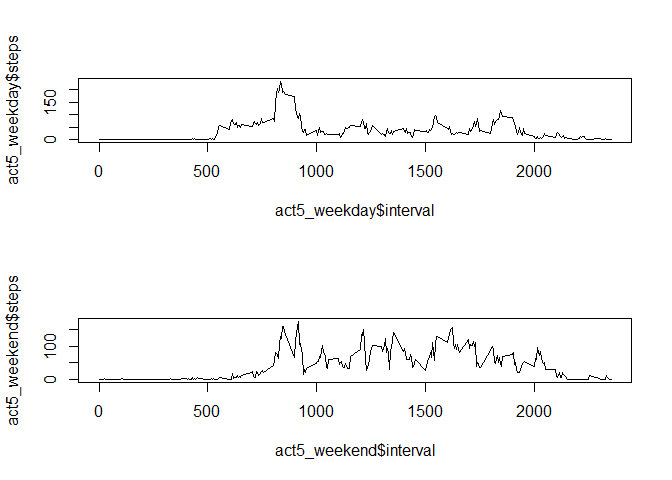
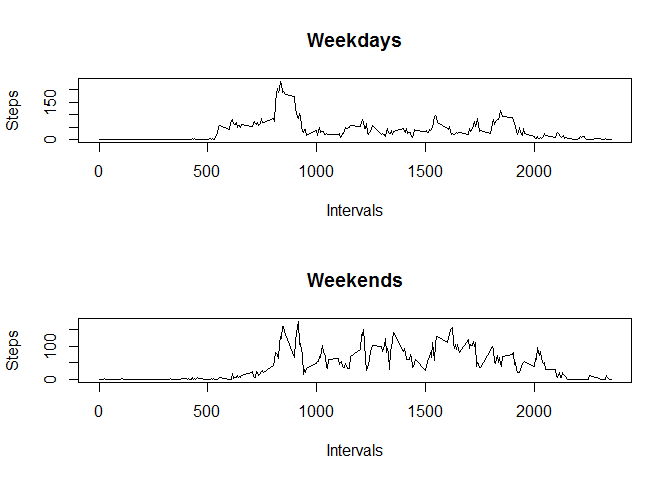
my commit to project 1 of reproducible research

diff --git a/PA1_template.html b/PA1_template.html
@@ -222,9 +222,9 @@ act5&lt;- aggregate(steps ~ interval + weekday, data = act5 , mean)
 par(mfrow= c(2,1))
 act5_weekday &lt;- subset(act5, act5$weekday == &quot;weekday&quot;)
 act5_weekend &lt;- subset(act5, act5$weekday == &quot;weekend&quot;)
-plot(act5_weekday$interval, act5_weekday$steps, type = &quot;l&quot;)
-plot(act5_weekend$interval, act5_weekend$steps, type = &quot;l&quot;)</code></pre>
[1 lines of base64/hex data omitted]
+plot(act5_weekday$interval, act5_weekday$steps, type = &quot;l&quot; , main = &quot;Weekdays&quot;, xlab = &quot;Intervals&quot;, ylab = &quot;Steps&quot;)
+plot(act5_weekend$interval, act5_weekend$steps, type = &quot;l&quot;, main = &quot;Weekends&quot;, xlab = &quot;Intervals&quot;, ylab = &quot;Steps&quot;)</code></pre>
[1 lines of base64/hex data omitted]
 </div>
 
 

diff --git a/PA1_template.md b/PA1_template.md
@@ -206,8 +206,8 @@ act5<- aggregate(steps ~ interval + weekday, data = act5 , mean)
 par(mfrow= c(2,1))
 act5_weekday <- subset(act5, act5$weekday == "weekday")
 act5_weekend <- subset(act5, act5$weekday == "weekend")
-plot(act5_weekday$interval, act5_weekday$steps, type = "l")
-plot(act5_weekend$interval, act5_weekend$steps, type = "l")
+plot(act5_weekday$interval, act5_weekday$steps, type = "l" , main = "Weekdays", xlab = "Intervals", ylab = "Steps")
+plot(act5_weekend$interval, act5_weekend$steps, type = "l", main = "Weekends", xlab = "Intervals", ylab = "Steps")
 ```
 
 ![](PA1_template_files/figure-html/unnamed-chunk-14-1.png) 
